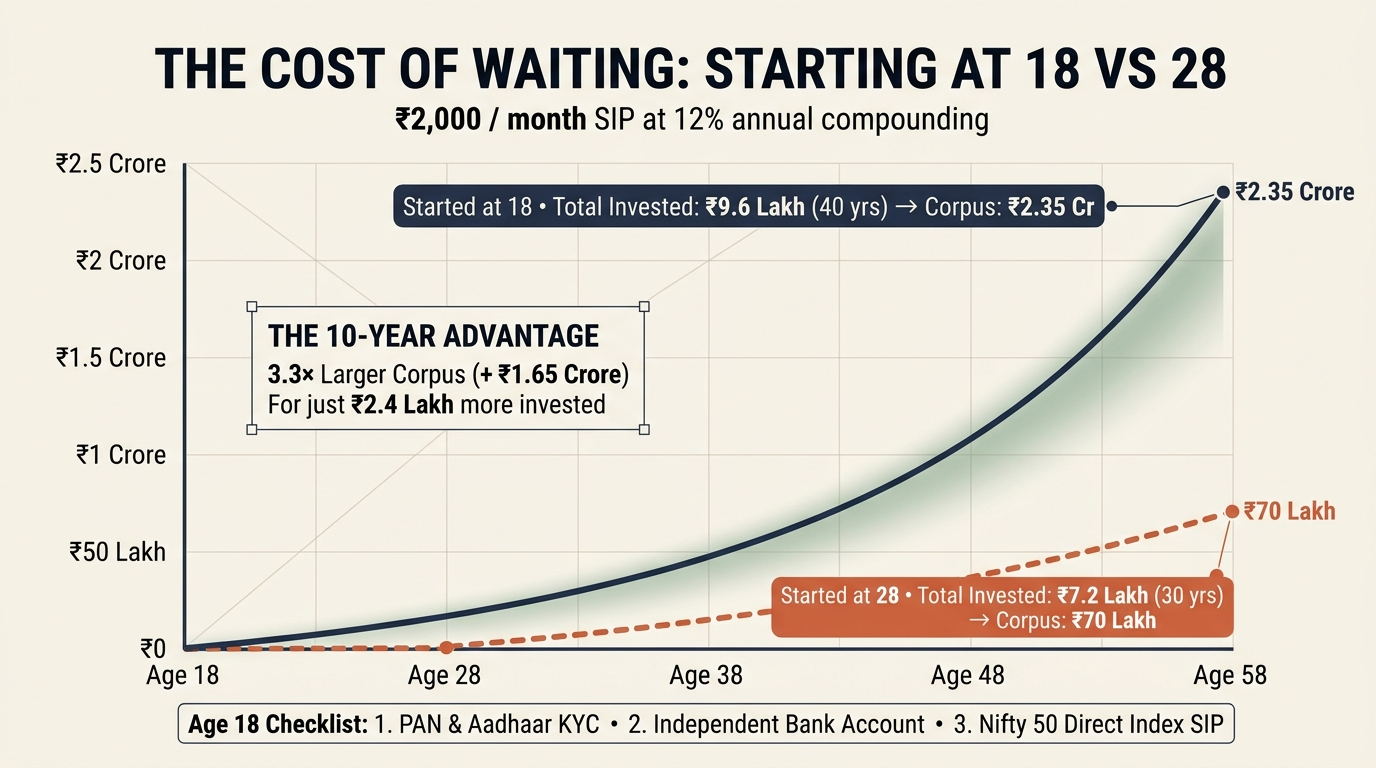
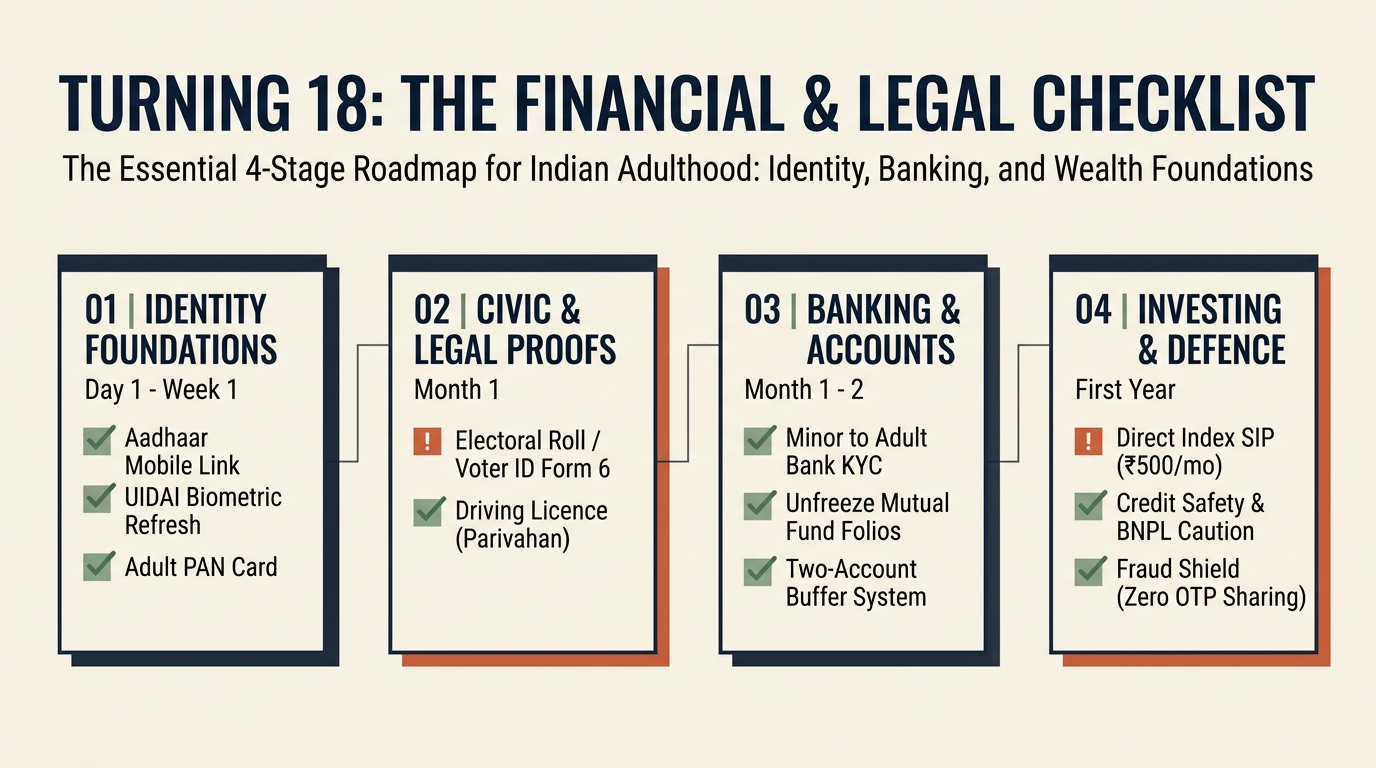
feat: update turning 18 article with DL, voter roll and milestone checklist infographic

diff --git a/src/content/launchpad/turning-18-the-financial-checklist.md b/src/content/launchpad/turning-18-the-financial-checklist.md
@@ -1,6 +1,6 @@
 ---
 title: "Turning 18: The Financial Checklist"
-description: "Turning 18 hands you legal control of your Aadhaar, PAN, bank account and investments. Here is the order to sort them out, and what to start and avoid in your first year."
+description: "Turning 18 hands you legal control of your Aadhaar, PAN, bank account, and investments. Here is the exact order to sort your documents, civic proofs, and first-year money moves."
 pubDate: 2026-10-24
 category: "Cash Flow & Investing"
 heroImage: "/images/turning-18-the-financial-checklist.jpg"
@@ -8,78 +8,87 @@ heroImage: "/images/turning-18-the-financial-checklist.jpg"
 
 <div class="summary-card">
   <p class="summary-title">⚡ At a Glance</p>
-  <p class="summary-text">At 18 you gain full legal control of your money, along with full responsibility for every contract you sign. A few small moves in the first year decide whether time works for you or against you.</p>
+  <p class="summary-text">At 18 you gain full legal control of your money, along with full responsibility for every contract you sign. A few ordered moves in your first year decide whether time works for you or against you.</p>
   <ul class="summary-metrics">
-    <li>🎯 ₹2,000 a month started at 18 can grow to about ₹2.35 crore by 58, against about ₹70 lakh if you start at 28 (assuming 12% a year)</li>
-    <li>🎯 Credit card minimum-due balances often cost more than 36% a year in interest</li>
-    <li>🎯 SEBI's study found roughly nine in ten individual F&O traders lost money over FY22 to FY24</li>
+    <li>🎯 Identity & Civic Rights: Link your personal mobile to Aadhaar, secure an adult PAN, enter the electoral roll, and get a driving licence</li>
+    <li>🎯 Bank & Folio Unfreeze: Convert minor bank accounts to regular adult accounts and unfreeze childhood mutual fund folios with adult KYC</li>
+    <li>🎯 First-Year Guardrails: Build a starter safety buffer and a low-cost Nifty 50 SIP, while avoiding credit card revolving debt and mule scams</li>
   </ul>
 </div>
 
 <figure class="article-image-box">
-  <img src="/images/turning-18-the-financial-checklist.jpg" alt="Compounding divergence curve comparing a ₹2,000 monthly SIP started at age 18 with one started at age 28, assuming 12% annual returns, reaching about ₹2.35 crore versus ₹70 lakh at age 58" loading="lazy" />
+  <img src="/images/turning-18-the-financial-checklist.jpg" alt="A comprehensive 4-stage checklist roadmap for turning 18 in India, covering identity documents, civic registration, banking conversion, and beginner investing" loading="lazy" />
 </figure>
 
 ## What Changes on Your 18th Birthday
 
-On the day you turn 18, you can sign contracts, take a loan, open a demat account and file your own tax return. You also lose the protection that being a minor gave you. Anything you sign is now yours to repay, and no one sends a manual along with the birthday wishes.
+On the day you turn 18, you can sign contracts, take a loan, open a demat account and file your own tax return. You also lose the legal protection that being a minor gave you. Anything you sign is now yours to repay, and no one sends a manual along with the birthday wishes.
 
 The order of the first few tasks matters, because each one unlocks the next. Work through them in this sequence:
 
-- **Switch to your own mobile number.** If your Aadhaar, bank account or mutual fund records still carry a parent's or guardian's number, change them to yours. The Aadhaar change needs no documents and can be done at an Aadhaar enrolment centre. Do this first, since an Aadhaar-linked mobile is what the online PAN process runs on.
-- **Check your Aadhaar biometrics.** UIDAI requires a biometric update (fingerprints, iris and photo) at age 5 and again at 15, and the one between 15 and 17 is free. Nothing new becomes mandatory at 18. If the update at 15 was missed, get it done now, because fingerprints change as you grow and mismatches can fail authentication. It cannot be done online, so you must visit a centre, and adults usually pay a small fee.
-- **Apply for a PAN card if you do not have one.** You can apply through:
-  - The Income Tax e-Filing portal (Instant e-PAN, free, needs your Aadhaar-linked mobile)
-  - Protean, formerly NSDL
-  - UTIITSL
-- **Convert your minor account into a regular account.** Once PAN is in hand, take it with your Aadhaar to your bank and complete a fresh KYC. If you never had an account, open a new one in your own name.
-- **Open a demat account with a reputable brokerage.** Pick a SEBI-registered broker with a long track record and clear charges, and link it to your own bank account. Check the registration on SEBI's website before you share any documents.
+- **Switch to your own mobile number.** If your Aadhaar, bank account or mutual fund records still carry a parent's number, change them to yours. The Aadhaar change needs no documents and can be done at an enrolment centre. Do this first, since an Aadhaar-linked mobile is what every online verification runs on.
+- **Check your Aadhaar biometrics.** UIDAI requires a biometric update (fingerprints, iris and photo) at age 5 and 15. The update between 15 and 17 is free. Nothing new becomes mandatory at 18. If the update at 15 was missed, get it done now at an enrolment centre, because outdated biometrics can fail KYC authentication.
+- **Apply for an adult PAN card.** If you do not have one, apply online through the Income Tax e-Filing portal for an Instant e-PAN using your Aadhaar OTP, or apply via Protean (formerly NSDL) or UTIITSL.
+- **Convert your minor account into a regular account.** Take your PAN and Aadhaar to your bank and complete fresh adult KYC. If you never had an account, open a new savings account in your own name.
+- **Open a demat account with a reputable brokerage.** Pick a SEBI-registered broker with a clear track record and transparent charges, and link it to your own bank account. Check the registration on SEBI's website before sharing documents.
 
 The first year of adulthood is cheap to get right. The same mistakes cost far more at 28 or 38, when the amounts are larger and the habits are older.
 
+### Register on the Electoral Roll
+
+Turning 18 grants you the right to vote, but your name does not enter the voter list automatically. You must submit Form 6 through the Election Commission of India's Voter Helpline app or the official portal (`voters.eci.gov.in`).
+
+Beyond casting a ballot, an Electoral Photo Identity Card (EPIC or Voter ID) serves as an Officially Valid Document (OVD) under RBI KYC directions. It provides independent, government-backed identity and permanent address proof unlinked from your school records, college ID, or parents' utilities. When you rent an apartment, buy a local SIM in another state, or open a secondary bank account, an updated Voter ID solves address verification problems immediately.
+
+### Apply for a Permanent Driving Licence
+
+Turning 18 makes you eligible for a permanent driving licence for cars and geared two-wheelers. You begin on the Ministry of Road Transport's Parivahan Sewa portal by applying for a learner's licence, followed by a practical driving test at your local Regional Transport Office (RTO) once the mandatory 30-day learner period concludes.
+
+A driving licence carries a serious financial dimension that many families overlook. Driving without a valid licence is not merely a traffic fine under the Motor Vehicles Act. It gives insurers a legal ground to reject motor claims outright. If an accident occurs while driving without an adult licence, the insurer can deny both own-damage and third-party liability coverage. That leaves an 18-year-old driver and their family personally liable for court-ordered compensation awards running into lakhs or crores. In daily administration, a smart-card driving licence also serves as a tamper-proof government photo ID.
+
 ### Fix the Old Accounts Your Parents Opened
 
-Mutual fund folios that your parents started in your name work differently from bank accounts. Once you turn 18, these folios are generally frozen for new transactions until you submit your own KYC and bank details as an adult. Do this early, otherwise you cannot redeem or add to the investment.
+Mutual fund folios started by your parents in your name work differently from bank accounts. Once you turn 18, these folios freeze for new investments until you complete fresh adult KYC and bank verification. Do this early to avoid delays when redeeming or investing.
 
-Add a nominee to every account while you are at it. If you hold a Sukanya Samriddhi account, you can operate it yourself after 18, and partial withdrawals for education are allowed under the scheme's rules.
+Add nominees to every account while you are at it. If you hold a Sukanya Samriddhi account, you can now operate it directly, and partial withdrawals for higher education are permissible under scheme guidelines.
 
 ### Know What Belongs to You Now
 
-Until 18, income from money that parents invest in a child's name is added to the parent's income for tax purposes. After 18, that income is yours and taxed in your hands. If your total income stays below the taxable limit, the tax on it may be zero, but you still need to know it exists.
+Before 18, investment returns in a child's name are clubbed with parental income for tax purposes. After 18, that income belongs to you and is taxed in your hands. Even if your earnings fall below the taxable threshold, tracking them early builds clean compliance habits.
 
 ## Build the Base Before You Invest
 
 ### Split Your Money Into Two Accounts
 
-Keep one account for spending and a second for savings. The day money arrives, move a fixed amount into the savings account, even if it is only ₹500. What stays in your spending account is what you are free to use.
+Maintain one account for everyday spending and a second for savings. Transfer a fixed portion on day one, even if it is only ₹500. What stays in your spending account is what you are free to use.
 
-Saved money that sits next to your UPI app tends to leak. Money in a separate account does not.
+Money parked alongside your primary UPI app leaks quickly. Funds placed in an unlinked secondary account stay protected.
 
 ### Count Your Small Phone Payments
 
-Small phone payments add up faster than most people expect. A ₹150 order from Zepto or Swiggy Instamart once a day comes to ₹4,500 a month and ₹54,000 a year. Nobody feels a single ₹150 payment. The annual number is what surprises.
+Small phone payments add up faster than most people expect. A ₹150 order from Zepto or Swiggy Instamart once a day comes to ₹4,500 a month and ₹54,000 a year. Nobody feels a single ₹150 payment. The annual total is what surprises.
 
-Open the monthly statement in Google Pay or PhonePe and add up your food, delivery and subscription payments. You do not need to stop spending on them. You just need to know the total before it becomes a habit.
+Open the monthly summary in Google Pay or PhonePe and add up your food, delivery, and subscription charges. You do not need to stop spending on them. You just need to know the total before it becomes an unexamined routine.
 
 ### Keep a Starter Emergency Fund
 
-Aim first for one month of your basic expenses in the savings account, then work towards three months. If you are still living with your parents, a smaller buffer is fine. If you are moving out for college or a first job, build it before you start any investment.
+Aim first for one month of basic living expenses in your savings account, expanding to three months over time. If living with parents, a smaller buffer suffices; if moving out for college or work, build this reserve before starting market investments.
 
 ## Credit: Your Score Starts Quietly
 
-You have no CIBIL score at 18 because you have no credit history. A missing score is not a bad score, but lenders will treat you as an unknown when you eventually apply for a loan.
+You have no CIBIL score at 18 because you have no credit history. A missing score is not a bad score, but lenders treat you as an unknown when you eventually apply for a loan.
 
 ### Use Your First Card Carefully
 
-Many card issuers set a minimum age of 21 or ask for proof of income, so options can be limited. An add-on card on a parent's account or a secured card backed by a fixed deposit are common starting points.
+Card issuers often require applicants to be 21 or provide income proof, so options at 18 are limited. An add-on card on a parent's account or a fixed-deposit-backed secured card are practical starting points.
 
-Whichever you choose, follow two rules. Pay the full statement amount every month, and keep your spending below 30% of the card limit. Paying only the minimum due is the expensive path, because interest on revolving balances often runs at 3% a month or more, which is above 36% a year.
+Whichever you choose, follow two rules. Pay the full statement balance every month, and keep your spending below 30% of the card limit. Paying only the minimum due is the expensive path, because interest on revolving balances often runs at 3% a month or more, exceeding 36% annually.
 
 ### Stay Away From Instant Loan Apps
 
-Instant loans and buy-now-pay-later offers are easy to get and hard to leave. Some apps charge heavy fees, and others access your phone contacts. RBI now maintains a public list of digital lending apps, so check a name there before you install or borrow.
+Short-term digital credit and buy-now-pay-later offers are easy to activate and difficult to exit. Some apps charge excessive fees and request invasive phone permissions. Check lenders against RBI's official digital lending register before borrowing.
 
-If you need a loan for education, read the terms line by line. Interest often starts running during your course, and paying even the interest while you study keeps the total repayment lower.
+If you take an education loan, note that interest often accrues during your study period. Servicing interest while studying substantially reduces your total repayment burden.
 
 ## Start Investing Small and Early
 
@@ -94,39 +103,39 @@ The 28-year-old invests only ₹2.4 lakh less, yet ends up with roughly a third 
 
 ### Where a Beginner Can Begin
 
-A low-cost index fund tracking the Nifty 50 is a simple starting point. Many funds allow SIPs from ₹100 to ₹500 a month, and you can choose a direct plan to avoid distributor commissions. Once your KYC and demat account are ready, you can set this up from your phone in about ten minutes.
+A low-cost direct index fund tracking the Nifty 50 is a clean starting point. Most funds permit SIPs from ₹100 to ₹500 monthly without distributor commissions. Once your KYC and demat account are ready, setting this up takes ten minutes.
 
-The Public Provident Fund is a slower, government-backed option. You can open one yourself at 18, the interest rate is reset every quarter, and the money stays locked for years. It suits the part of your savings you do not want to touch.
+The Public Provident Fund offers a safe government-backed alternative with quarterly interest resets and long lock-ins, suited for capital you wish to leave untouched.
 
 ### Keep Insurance and Investment Separate
 
-Traditional endowment policies are often pitched to young adults as safe savings with insurance. Returns on such products have generally been modest compared with market-linked options, and the cover is small for what you pay. Buy insurance for protection and invest separately for growth.
+Traditional endowment policies are frequently marketed to young adults as bundled savings and insurance. Returns remain modest compared to equity funds, and coverage is typically inadequate. Buy pure term or health insurance for protection, and invest separately for capital growth.
 
-You are likely covered under your parents' health policy for now. Check the policy's terms on age limits for dependent children so you know when you need your own.
+Verify how long your parents' family health policy covers you as a dependent so you know when you need your own.
 
 ### Skip the Trading Shortcuts
 
-Stock tips on Telegram and reels showing quick profits from options trading are easy to find. SEBI's own study found that roughly nine in ten individual traders in futures and options lost money over FY22 to FY24. Your first investing year is for building the habit, not chasing returns.
+Social media feeds and chat groups frequently promote quick derivative trading gains. Yet SEBI data reveals roughly nine in ten retail futures and options traders recorded net losses between FY22 and FY24. Use your first year to build reliable saving habits rather than pursuing speculative gambles.
 
 ## Protect Yourself From Fraud
 
-Students and first-time earners are common targets for a specific scam. Someone offers you a commission to let your bank account "receive and forward" money. Those funds usually come from fraud, and the account holder, which is you, can face a police case. Never lend or rent out your account, SIM or UPI ID.
+First-time earners and students are prime targets for money-mule networks. Fraudsters offer commissions to let third-party funds pass through your bank account or UPI handle. These funds originate from cybercrime, making the registered account holder legally liable. Never share your account, SIM, or UPI credentials.
 
-A few other rules cover most situations. Do not share an OTP or UPI PIN with anyone, including people claiming to be from your bank. A "collect request" on UPI takes money out of your account, and you never need to approve one to receive money. If something goes wrong, call the national cyber crime helpline at 1930 as soon as you can, because speed improves the chance of freezing the money.
+Do not approve UPI "collect requests" to receive money; receiving funds never requires a PIN. If suspicious activity occurs, report it immediately to the national cyber crime helpline at 1930 to improve the odds of freezing the transaction.
 
 ## Handle Your First Income Properly
 
-An internship stipend, freelance gig or part-time job brings paperwork. Keep the payment records, and check Form 26AS or the Annual Information Statement on the income tax portal to see whether tax was deducted.
+Internships and freelance projects involve tax deductions. Monitor Form 26AS or your Annual Information Statement on the income tax portal.
 
-If tax was cut at source and your total income is below the taxable limit, filing a return is how you claim that money back. Filing early also builds an income record that helps with future loans and visas.
+If tax was cut at source while your annual income remains below the basic exemption threshold, filing an ITR is how you claim a complete refund while establishing an official income record for future loans and visas.
 
 <div class="todo-card">
   <h3>🛠 Your Weekend Wealth Checklist</h3>
   <ul class="todo-list">
-    <li>Link your own mobile number to Aadhaar, your bank account and any mutual fund folio, then apply for a PAN if you do not have one.</li>
-    <li>Take your PAN and Aadhaar to the bank to convert your minor account to a regular one, and add a nominee.</li>
-    <li>Open a demat account with a SEBI-registered broker, then start a SIP of ₹500 or more in a Nifty 50 index fund.</li>
-    <li>Turn on alerts for every account, and promise yourself never to share an OTP or lend out your bank account.</li>
+    <li>Link your own mobile number to Aadhaar, apply for an adult PAN, and submit Form 6 on the Voter Helpline portal to get on the electoral roll.</li>
+    <li>Convert your minor bank account to a regular adult account with fresh KYC, add nominees, and apply for a learner's licence on Parivahan Sewa.</li>
+    <li>Open a demat account with a SEBI-registered broker, then start a SIP of ₹500 or more in a Nifty 50 direct index fund.</li>
+    <li>Turn on SMS alerts for every account, build a starter buffer, and never share an OTP or lend out your bank account.</li>
   </ul>
 </div>
 
